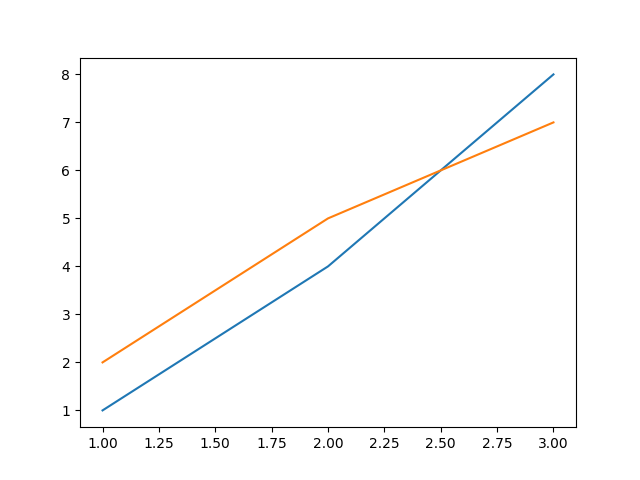
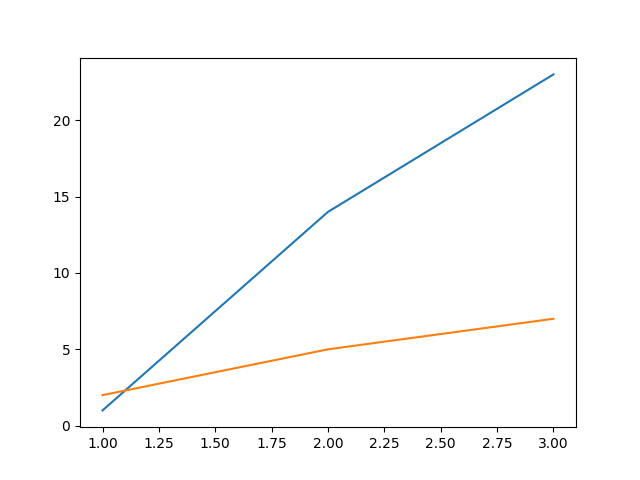
requirements(matplotlib)

diff --git a/Group_31_ECM1414_Coursework/Code/extension_2.py b/Group_31_ECM1414_Coursework/Code/extension_2.py
@@ -1,3 +1,7 @@
+
+# Need to install dependencies. Run line below in terminal
+# pip install -r requirements.txt
+
 import timeit
 import matplotlib.pyplot as plt
 from take_input import *
@@ -34,7 +38,7 @@ def comparing_algorithms_line_graph(brute_force_time,
   plt.plot(no_of_events, dynamic_programming_time)
 
   plt.savefig('Group_31_ECM1414_Coursework/graphs/line_graph.png')
-comparing_algorithms_line_graph([1, 4, 8], [2, 5, 7], [1, 2, 3])
+comparing_algorithms_line_graph([1, 14, 23], [2, 5, 7], [1, 2, 3])
 
 # A function which creates a bar chart showing the "speedup factor" (brute force time ÷ dynamic programming time) for each input size.
 
